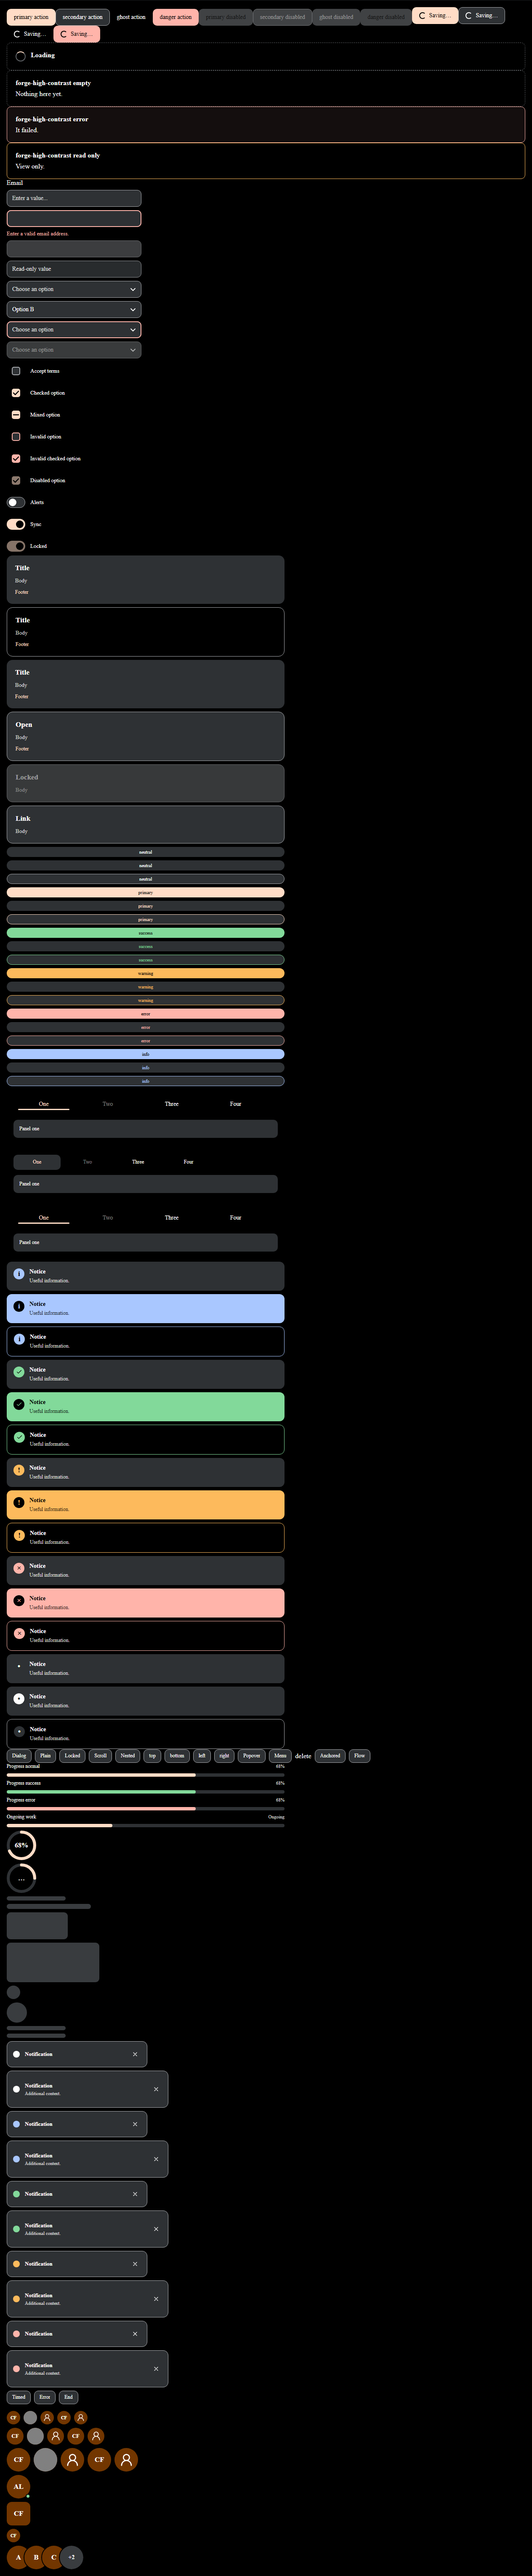
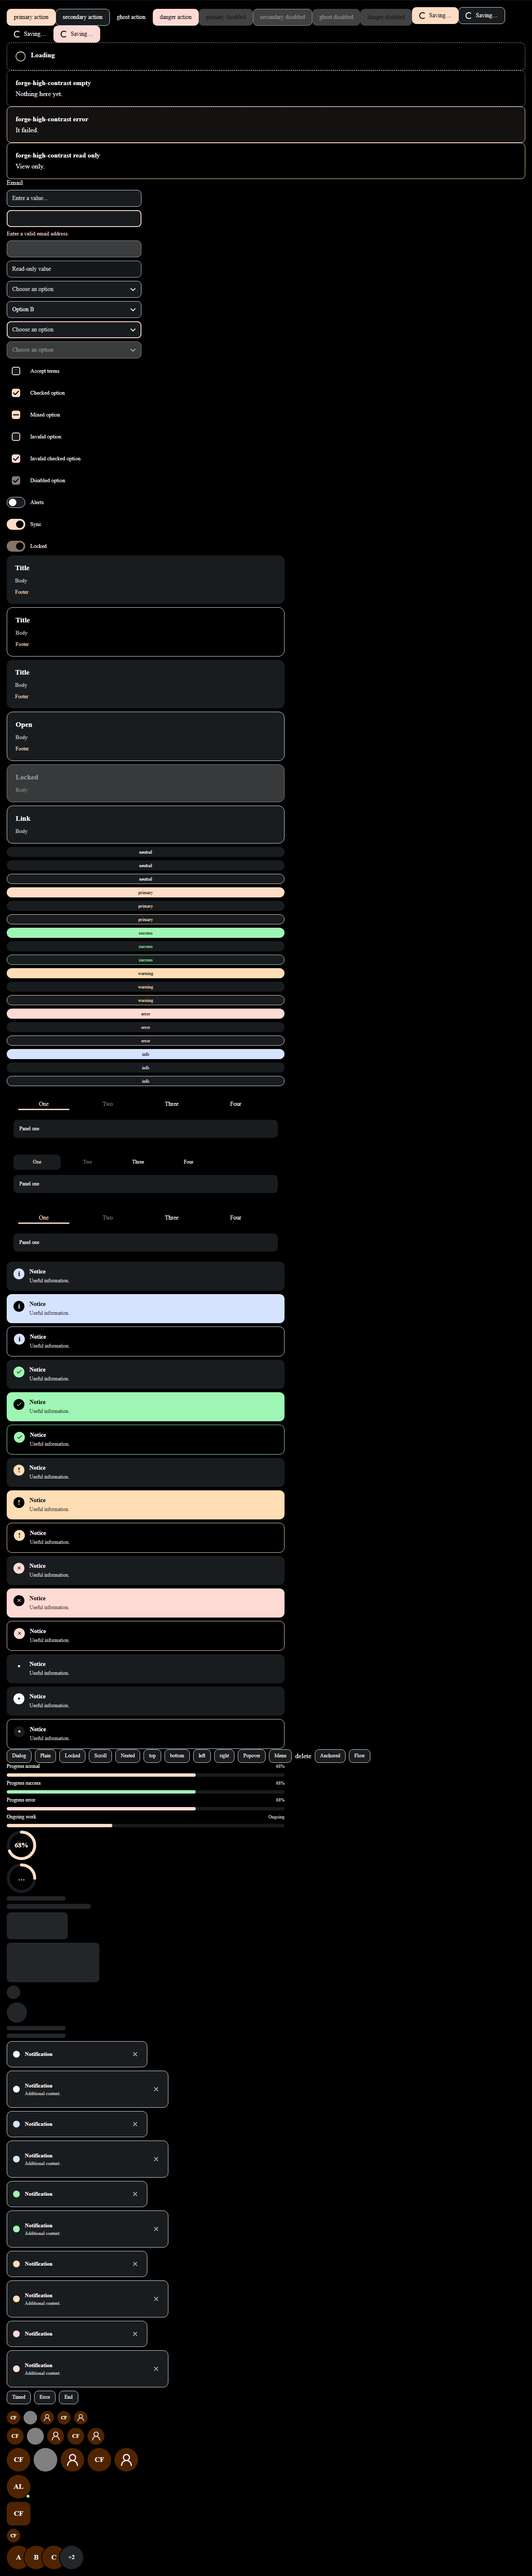
feat: settle the V2 token contract before release (#4)
Settles the V2 token contract before the 1.1.0 release: public roles and
internal component tokens, data-theme support, a real high contrast mode,
shadow and scrim roles instead of colors in geometry, a single source for
tones, modes, palettes and roles, and normalized line endings.

diff --git a/packages/tokens/src/theme-v2/theme-business/create-theme.ts b/packages/tokens/src/theme-v2/theme-business/create-theme.ts
@@ -1,4 +1,4 @@
-import type { BrandColors, Theme, ThemeConfig, Tone } from '../theme-abstractions/index.js';
+import { themeModes, type BrandColors, type Theme, type ThemeConfig, type Tone } from '../theme-abstractions/index.js';
 import { contrastRatio } from './contrast.js';
 import { generatePalette } from './palette.js';
 import { normalizeColor } from './theme.helper.js';
@@ -14,7 +14,7 @@ export function createTheme(config: ThemeConfig): Theme {
   if (!config || typeof config.name !== 'string' || !config.name.trim() || config.name.length > 80) {
     throw new TypeError('Theme name must be a non-empty string of at most 80 characters');
   }
-  if (!['light', 'dark', 'high-contrast'].includes(config.mode)) {
+  if (!themeModes.includes(config.mode)) {
     throw new TypeError('Theme mode must be light, dark, or high-contrast');
   }
   if (!config.colors || typeof config.colors !== 'object') throw new TypeError('Theme colors are required');
@@ -34,21 +34,22 @@ export function createTheme(config: ThemeConfig): Theme {
   const dark = config.mode !== 'light';
   const high = config.mode === 'high-contrast';
   const surface = palettes.neutral[dark ? (high ? 0 : 10) : 98];
-  const surfaceVariant = palettes.neutralVariant[dark ? 30 : 90];
+  const surfaceVariant = palettes.neutralVariant[high ? 20 : dark ? 30 : 90];
   const actionTones: StateTones = high ? [90, 85, 80] : dark ? [80, 75, 70] : [40, 35, 30];
-  const errorTones: StateTones = dark ? [80, 75, 70] : [40, 35, 30];
-  const containerTones: StateTones = dark ? [20, 25, 30] : [95, 90, 85];
+  const errorTones: StateTones = high ? [90, 85, 80] : dark ? [80, 75, 70] : [40, 35, 30];
+  const containerTones: StateTones = high ? [10, 15, 20] : dark ? [20, 25, 30] : [95, 90, 85];
+  const accentTone: Tone = high ? 90 : dark ? 80 : 40;
   const primary = palettes.primary[actionTones[0]];
   const error = palettes.error[errorTones[0]];
-  const primaryContainer = palettes.primary[dark ? 30 : 90];
-  const secondary = palettes.secondary[dark ? 80 : 40];
-  const warning = palettes.warning[dark ? 80 : 40];
-  const success = palettes.success[dark ? 80 : 40];
-  const info = palettes.info[dark ? 80 : 40];
+  const primaryContainer = palettes.primary[high ? 20 : dark ? 30 : 90];
+  const secondary = palettes.secondary[accentTone];
+  const warning = palettes.warning[accentTone];
+  const success = palettes.success[accentTone];
+  const info = palettes.info[accentTone];
   const roleValues: Theme['roles'] = {
     background: surface,
     surface,
-    surfaceRaised: palettes.neutral[dark ? 15 : 100],
+    surfaceRaised: palettes.neutral[high ? 5 : dark ? 15 : 100],
     surfaceContainer: palettes.neutral[containerTones[0]],
     surfaceContainerHover: palettes.neutral[containerTones[1]],
     surfaceContainerPressed: palettes.neutral[containerTones[2]],
@@ -61,11 +62,13 @@ export function createTheme(config: ThemeConfig): Theme {
     onPrimaryContainer: foreground(primaryContainer),
     secondary,
     onSecondary: foreground(secondary),
-    outline: palettes.neutralVariant[dark ? 70 : 40],
-    outlineVariant: palettes.neutralVariant[dark ? 40 : 80],
+    outline: palettes.neutralVariant[high ? 90 : dark ? 70 : 40],
+    outlineVariant: palettes.neutralVariant[high ? 70 : dark ? 40 : 80],
     focusRing: foreground(surface),
     selection: primaryContainer,
     disabled: palettes.neutral[dark ? 40 : 70],
+    scrim: palettes.neutral[10],
+    shadow: palettes.neutral[0],
     error,
     onError: foreground(error),
     errorHover: palettes.error[errorTones[1]],

diff --git a/packages/tokens/src/theme-v2/theme-business/validate-theme.ts b/packages/tokens/src/theme-v2/theme-business/validate-theme.ts
@@ -1,8 +1,6 @@
-import type { Theme, ThemeValidation } from '../theme-abstractions/index.js';
+import { paletteNames, semanticRoles, themeModes, tones, type Theme, type ThemeValidation } from '../theme-abstractions/index.js';
 import { contrastRatio } from './contrast.js';
-import { contrastPairs, roles, tones } from './theme.helper.js';
-
-const paletteNames = ['primary', 'secondary', 'neutral', 'neutralVariant', 'tertiary', 'error', 'warning', 'success', 'info'] as const;
+import { contrastPairs, highContrastPairs } from './theme.helper.js';
 
 export function validateTheme(theme: Theme): ThemeValidation {
   const errors: string[] = [];
@@ -10,7 +8,7 @@ export function validateTheme(theme: Theme): ThemeValidation {
     return { valid: false, errors: ['Theme roles are required'], contrasts: [] };
   }
   if (typeof theme.name !== 'string' || !theme.name.trim() || theme.name.length > 80) errors.push('Theme name is invalid');
-  if (!['light', 'dark', 'high-contrast'].includes(theme.mode)) errors.push('Theme mode is invalid');
+  if (!themeModes.includes(theme.mode)) errors.push('Theme mode is invalid');
   if (!theme.colors || typeof theme.colors !== 'object') errors.push('Theme colors are required');
   else {
     for (const key of paletteNames) if (!/^#[\da-f]{6}$/i.test(theme.colors[key] ?? '')) errors.push(`Invalid seed: ${key}`);
@@ -23,9 +21,10 @@ export function validateTheme(theme: Theme): ThemeValidation {
       }
     }
   }
-  for (const role of roles) if (!/^#[\da-f]{6}$/i.test(theme.roles[role] ?? '')) errors.push(`Invalid or missing role: ${role}`);
+  for (const role of semanticRoles) if (!/^#[\da-f]{6}$/i.test(theme.roles[role] ?? '')) errors.push(`Invalid or missing role: ${role}`);
 
-  const contrasts = contrastPairs
+  const pairs = theme.mode === 'high-contrast' ? [...contrastPairs, ...highContrastPairs] : contrastPairs;
+  const contrasts = pairs
     .filter(([foreground, background]) => /^#[\da-f]{6}$/i.test(theme.roles[foreground] ?? '') && /^#[\da-f]{6}$/i.test(theme.roles[background] ?? ''))
     .map(([foreground, background, minimum]) => {
       const ratio = contrastRatio(theme.roles[foreground], theme.roles[background]);
@@ -38,5 +37,5 @@ export function validateTheme(theme: Theme): ThemeValidation {
 export function getThemeRoleDeclarations(theme: Theme) {
   const validation = validateTheme(theme);
   if (!validation.valid) throw new Error(`Theme is invalid: ${validation.errors.join('; ')}`);
-  return roles.map((role) => [role, theme.roles[role]] as const);
+  return semanticRoles.map((role) => [role, theme.roles[role]] as const);
 }

diff --git a/packages/tokens/src/theme-v2/theme-business/theme.helper.ts b/packages/tokens/src/theme-v2/theme-business/theme.helper.ts
@@ -1,15 +1,5 @@
 import type { SemanticRole } from '../theme-abstractions/index.js';
 
-export const tones = [0, 5, 10, 15, 20, 25, 30, 35, 40, 45, 50, 55, 60, 65, 70, 75, 80, 85, 90, 95, 98, 99, 100] as const;
-
-export const roles: SemanticRole[] = [
-  'background', 'surface', 'surfaceRaised', 'surfaceContainer', 'surfaceVariant', 'onSurface', 'onSurfaceVariant',
-  'primary', 'onPrimary', 'primaryContainer', 'onPrimaryContainer', 'secondary', 'onSecondary', 'outline',
-  'outlineVariant', 'focusRing', 'selection', 'disabled', 'error', 'warning', 'success', 'info', 'actionPrimary',
-  'onActionPrimary', 'actionPrimaryHover', 'actionPrimaryPressed', 'onError', 'errorHover', 'errorPressed',
-  'surfaceContainerHover', 'surfaceContainerPressed', 'onSuccess', 'onWarning', 'onInfo',
-];
-
 export const contrastPairs: [SemanticRole, SemanticRole, number][] = [
   ['onSurface', 'surface', 4.5], ['onSurfaceVariant', 'surfaceVariant', 4.5], ['onPrimary', 'primary', 4.5],
   ['onPrimaryContainer', 'primaryContainer', 4.5], ['onSecondary', 'secondary', 4.5],
@@ -33,6 +23,17 @@ export const contrastPairs: [SemanticRole, SemanticRole, number][] = [
   ['success', 'surfaceContainer', 4.5], ['info', 'surfaceContainer', 4.5],
   ['error', 'surfaceContainerHover', 4.5], ['focusRing', 'surfaceContainer', 3],
   ['focusRing', 'surfaceContainerHover', 3],
+];
+
+export const highContrastPairs: [SemanticRole, SemanticRole, number][] = [
+  ['onSurface', 'surface', 7], ['onSurface', 'surfaceContainer', 7], ['onSurface', 'surfaceContainerHover', 7],
+  ['onSurface', 'surfaceContainerPressed', 7], ['onSurfaceVariant', 'surfaceVariant', 7],
+  ['onPrimaryContainer', 'primaryContainer', 7], ['onActionPrimary', 'actionPrimary', 7], ['onError', 'error', 7],
+  ['onSuccess', 'success', 7], ['onWarning', 'warning', 7], ['onInfo', 'info', 7],
+  ['actionPrimary', 'surfaceContainer', 7], ['error', 'surfaceContainer', 7], ['warning', 'surfaceContainer', 7],
+  ['success', 'surfaceContainer', 7], ['info', 'surfaceContainer', 7], ['focusRing', 'surfaceContainer', 7],
+  ['outline', 'surface', 4.5], ['outline', 'surfaceContainer', 4.5], ['outline', 'surfaceContainerHover', 4.5],
+  ['outline', 'surfaceContainerPressed', 4.5],
 ];
 
 export function normalizeColor(value: unknown, label: string): string {

diff --git a/packages/tokens/src/theme-v2/theme-abstractions/constants/constants.ts b/packages/tokens/src/theme-v2/theme-abstractions/constants/constants.ts
@@ -1,3 +1,16 @@
-export type Tone = 0 | 5 | 10 | 15 | 20 | 25 | 30 | 35 | 40 | 45 | 50 | 55 | 60 | 65 | 70 | 75 | 80 | 85 | 90 | 95 | 98 | 99 | 100;
-export type SemanticRole = 'background' | 'surface' | 'surfaceRaised' | 'surfaceContainer' | 'surfaceVariant' | 'onSurface' | 'onSurfaceVariant' | 'primary' | 'onPrimary' | 'primaryContainer' | 'onPrimaryContainer' | 'secondary' | 'onSecondary' | 'outline' | 'outlineVariant' | 'focusRing' | 'selection' | 'disabled' | 'error' | 'warning' | 'success' | 'info' | 'actionPrimary' | 'onActionPrimary' | 'actionPrimaryHover' | 'actionPrimaryPressed' | 'onError' | 'errorHover' | 'errorPressed' | 'surfaceContainerHover' | 'surfaceContainerPressed' | 'onSuccess' | 'onWarning' | 'onInfo';
-export type ThemeMode = 'light' | 'dark' | 'high-contrast';
+export const tones = [0, 5, 10, 15, 20, 25, 30, 35, 40, 45, 50, 55, 60, 65, 70, 75, 80, 85, 90, 95, 98, 99, 100] as const;
+export type Tone = (typeof tones)[number];
+
+export const themeModes = ['light', 'dark', 'high-contrast'] as const;
+export type ThemeMode = (typeof themeModes)[number];
+
+export const paletteNames = ['primary', 'secondary', 'neutral', 'neutralVariant', 'tertiary', 'error', 'warning', 'success', 'info'] as const;
+
+export const semanticRoles = [
+  'background', 'surface', 'surfaceRaised', 'surfaceContainer', 'surfaceContainerHover', 'surfaceContainerPressed',
+  'surfaceVariant', 'onSurface', 'onSurfaceVariant', 'primary', 'onPrimary', 'primaryContainer', 'onPrimaryContainer',
+  'secondary', 'onSecondary', 'outline', 'outlineVariant', 'focusRing', 'selection', 'disabled', 'scrim', 'shadow',
+  'error', 'onError', 'errorHover', 'errorPressed', 'warning', 'onWarning', 'success', 'onSuccess', 'info', 'onInfo',
+  'actionPrimary', 'onActionPrimary', 'actionPrimaryHover', 'actionPrimaryPressed',
+] as const;
+export type SemanticRole = (typeof semanticRoles)[number];

diff --git a/packages/tokens/src/theme-v2/theme-module/tokens-css.ts b/packages/tokens/src/theme-v2/theme-module/tokens-css.ts
@@ -5,6 +5,7 @@ import { presets } from './presets.js';
 import { cssDeclarations, cssVariableName } from './theme-css.js';
 
 const modeSelector = (mode: ThemeMode) => `[data-cf-theme-mode="${mode}"]`;
+const inheritedSelector = (mode: ThemeMode) => `[data-theme="${mode}"]:not([data-cf-theme-mode])`;
 
 function block(selector: string, declarations: readonly (readonly [string, string])[]): string {
   return `${selector} {\n${declarations.map(([name, value]) => `  ${name}: ${value};`).join('\n')}\n}\n`;
@@ -20,6 +21,8 @@ export function generateTokensCss(): string {
   );
   return [
     block(`:root, ${modeSelector('dark')}`, roleDeclarations('dark')),
+    block(inheritedSelector('dark'), roleDeclarations('dark')),
+    block(inheritedSelector('light'), roleDeclarations('light')),
     block(modeSelector('light'), [['color-scheme', 'light'], ...roleDeclarations('light')]),
     block(modeSelector('high-contrast'), roleDeclarations('high-contrast')),
     block(`${modeSelector('dark')}, ${modeSelector('high-contrast')}`, [['color-scheme', 'dark']]),

diff --git a/packages/tokens/src/theme-v2/theme-module/geometry.ts b/packages/tokens/src/theme-v2/theme-module/geometry.ts
@@ -81,7 +81,9 @@ export const geometry = {
     bodyOpacity: '0.8',
     footerFontSize: '12px',
     footerFontWeight: '500',
-    shadow: '0 5px 8px rgba(0, 0, 0, 0.21)',
+    shadowOffset: '5px',
+    shadowBlur: '8px',
+    shadowOpacity: '0.21',
     focusWidth: '2px',
     disabledOpacity: '0.6',
     transitionDuration: '120ms',
@@ -165,7 +167,7 @@ export const geometry = {
     footerGap: '9px',
     focusWidth: '2px',
     touchTarget: '44px',
-    backdrop: 'rgba(23, 27, 34, 0.72)',
+    backdropOpacity: '0.72',
   },
   tooltip: {
     maxWidth: '215px',

diff --git a/packages/tokens/src/theme-v2/theme-business/palette.ts b/packages/tokens/src/theme-v2/theme-business/palette.ts
@@ -1,6 +1,6 @@
 import { TonalPalette, argbFromHex, hexFromArgb } from '@material/material-color-utilities';
-import type { TonalScale } from '../theme-abstractions/index.js';
-import { normalizeColor, tones } from './theme.helper.js';
+import { tones, type TonalScale } from '../theme-abstractions/index.js';
+import { normalizeColor } from './theme.helper.js';
 
 export function generatePalette(seed: string): TonalScale {
   const palette = TonalPalette.fromInt(argbFromHex(normalizeColor(seed, 'seed')));

diff --git a/packages/ui/src/componentsV2/surfaces/CardV2/CardV2.module.css b/packages/ui/src/componentsV2/surfaces/CardV2/CardV2.module.css
@@ -22,7 +22,8 @@
 }
 
 .elevated {
-  box-shadow: var(--cf-v2-card-shadow);
+  box-shadow: 0 var(--cf-v2-card-shadow-offset) var(--cf-v2-card-shadow-blur)
+    color-mix(in srgb, var(--cf-v2-shadow) calc(var(--cf-v2-card-shadow-opacity) * 100%), transparent);
 }
 
 .interactive {

diff --git a/packages/tokens/src/theme-v2/theme-abstractions/index.ts b/packages/tokens/src/theme-v2/theme-abstractions/index.ts
@@ -7,3 +7,4 @@ export type {
   TonalScale,
 } from './models/models.js';
 export type { SemanticRole, ThemeMode, Tone } from './constants/constants.js';
+export { paletteNames, semanticRoles, themeModes, tones } from './constants/constants.js';

diff --git a/packages/ui/src/componentsV2/overlays/DialogV2/DialogV2.module.css b/packages/ui/src/componentsV2/overlays/DialogV2/DialogV2.module.css
@@ -29,7 +29,7 @@
 }
 
 .dialog::backdrop {
-  background: var(--cf-v2-dialog-backdrop);
+  background: color-mix(in srgb, var(--cf-v2-scrim) calc(var(--cf-v2-dialog-backdrop-opacity) * 100%), transparent);
 }
 
 .sm {

diff --git a/docs/design-system/theme-engine-v2.md b/docs/design-system/theme-engine-v2.md
@@ -13,8 +13,8 @@ available on npm until a future release is published.
 2. **Tonal palettes:** fixed tones from 0 through 100 generated with HCT.
 3. **Semantic roles:** surfaces, foregrounds, actions, outlines, focus,
    selection, disabled state, and feedback colors. Light, dark, and high
-   contrast each use explicit tone assignments. High contrast is currently a
-   dark appearance with a black surface and lighter primary.
+   contrast each use explicit tone assignments. High contrast is a dark
+   appearance with its own stricter contract, described below.
 4. **Component roles:** `actionPrimary` and `onActionPrimary` demonstrate an
    additive component layer. Future V2 components may consume these roles or
    define further `--cf-v2-*` component tokens.
@@ -117,8 +117,8 @@ move away from the surface.
 | Roles (rest, hover, pressed) | Foreground | Light | Dark | High contrast |
 | --- | --- | --- | --- | --- |
 | `actionPrimary`, `actionPrimaryHover`, `actionPrimaryPressed` | `onActionPrimary` | 40, 35, 30 | 80, 75, 70 | 90, 85, 80 |
-| `error`, `errorHover`, `errorPressed` | `onError` | 40, 35, 30 | 80, 75, 70 | 80, 75, 70 |
-| `surfaceContainer`, `surfaceContainerHover`, `surfaceContainerPressed` | `onSurface` | 95, 90, 85 | 20, 25, 30 | 20, 25, 30 |
+| `error`, `errorHover`, `errorPressed` | `onError` | 40, 35, 30 | 80, 75, 70 | 90, 85, 80 |
+| `surfaceContainer`, `surfaceContainerHover`, `surfaceContainerPressed` | `onSurface` | 95, 90, 85 | 20, 25, 30 | 10, 15, 20 |
 
 A fill keeps one foreground across its states. `validateTheme` enforces:
 
@@ -132,6 +132,26 @@ A fill keeps one foreground across its states. `validateTheme` enforces:
 
 Disabled and focus treatments are not part of these roles. Focus keeps using
 `focusRing`, and loading reuses the rest roles with `aria-busy`.
+
+## High contrast
+
+High contrast raises surfaces, outlines, and status colors, not only the page
+background. On top of the rules for every mode, `validateTheme` requires in this
+mode:
+
+- **Text:** 7:1 for `onSurface` on `surface` and every `surfaceContainer` state,
+  for each foreground on its fill, and for action and status colors on
+  `surfaceContainer`.
+- **Focus:** 7:1 for `focusRing` on `surfaceContainer`.
+- **Outline:** 4.5:1 on `surface` and every `surfaceContainer` state.
+
+There is no light high contrast mode yet.
+
+## Shadow and scrim
+
+`shadow` and `scrim` are opaque roles, so a theme controls them. Components apply
+their opacity from geometry, as `card-shadow-opacity` and
+`dialog-backdrop-opacity` do. Geometry holds no colors.
 
 ## Status roles
 
@@ -162,13 +182,14 @@ lists the button variables.
 
 `@corefoundry-labs/forge-tokens/theme-v2/tokens.css` also carries the Forge
 preset, generated by the engine at build time, so V2 components have color
-without V1 tokens or a runtime theme. Dark applies on `:root`. Set
-`data-cf-theme-mode` to `light`, `dark`, or `high-contrast` on any element to
-pick a mode. `ThemeScope`, `applyTheme`, and `generateThemeCss` replace these
+without V1 tokens or a runtime theme. Dark applies on `:root`. V2 follows
+the V1 `data-theme` attribute, so a V1 page in light mode gets light V2
+components. Set `data-cf-theme-mode` to `light`, `dark`, or `high-contrast` on any
+element to pick a mode, and it wins over `data-theme` on the same element. `ThemeScope`, `applyTheme`, and `generateThemeCss` replace these
 defaults within their scope.
 
 The stylesheet sets `color-scheme` only through `data-cf-theme-mode`, never on
-`:root`, so it does not override the V1 `[data-theme]` scheme when both
+`:root` or through `data-theme`, so it does not override the V1 `[data-theme]` scheme when both
 stylesheets load.
 
 | Variable suffix | Value |

diff --git a/packages/tokens/README.md b/packages/tokens/README.md
@@ -1,20 +1,10 @@
 # @corefoundry-labs/forge-tokens
 
-The versioned Forge design-token contract. `tokens.json` is authoritative; `npm run generate:tokens` generates `src/tokens.css`, and package builds distribute that generated file. Never edit generated CSS directly.
+Design tokens for Forge. The package carries two independent systems: the V1 tokens and Theme Engine V2.
 
-The CSS contract is `data-theme="dark"` or `data-theme="light"`. Dark is the default on `:root` when no attribute is present. A nested element with either attribute starts an isolated semantic token scope. The package does not manage theme state or persistence.
+## V1 tokens
 
-Semantic variables include surfaces, text, borders, interactive states, focus,
-status, selection, overlays, and elevations. Foundations also provide spacing,
-radius, typography, motion, responsive values, and border widths. Consult
-[`token-reconciliation.md`](../../docs/design/token-reconciliation.md) for
-evidence and status for each historical drift. Light mode is not claimed as a
-human-approved canonical Figma mode. In particular, the intended variable
-status of `surfaceInteractive` and `surfaceTag` remains an open design decision.
-The generated CSS also exposes a small primitive palette (`--forge-palette-*`)
-sampled only from values already present in the current token source. These
-primitive samples are implementation foundations, not a claim that Figma
-defines those palette scales or names.
+`tokens.json` is authoritative, and it generates the CSS variables (`--forge-*`). They cover surfaces, text, borders, interactive states, focus, status, selection, overlays, elevations, spacing, radius, typography, motion, responsive values, and border widths. The generated `--forge-palette-*` values are implementation foundations sampled from the token source, not palette scales defined in Figma.
 
 ```css
 @import '@corefoundry-labs/forge-tokens/tokens.css';
@@ -26,11 +16,27 @@ defines those palette scales or names.
 }
 ```
 
-Set `data-theme="light"` on a host element to scope light tokens; omit the
-attribute for the default dark palette.
+Dark is the default on `:root`. Set `data-theme="light"` on a host element to scope light tokens.
 
-Build and validate with `npm run generate:tokens`, `npm run check:tokens`,
-`npm run build --workspace=@corefoundry-labs/forge-tokens`, and
-`npm test --workspace=@corefoundry-labs/forge-tokens`. Package consumers should import
-`@corefoundry-labs/forge-tokens/tokens.css`; applications must not depend on the package's
-source directory.
+## Theme Engine V2
+
+`@corefoundry-labs/forge-tokens/theme-v2` generates accessible color themes from brand seeds, and `theme-v2/tokens.css` ships the Forge preset as the default.
+
+```ts
+import { applyTheme, createTheme, presets } from '@corefoundry-labs/forge-tokens/theme-v2';
+
+applyTheme(element, createTheme({ ...presets.forge, mode: 'light' }));
+```
+
+Semantic roles such as `--cf-v2-surface` are public. Component tokens such as `--cf-v2-button-height-md` are internal, so do not depend on them. V2 follows `data-theme`, and `data-cf-theme-mode` overrides it with `light`, `dark`, or `high-contrast`. See the [Theme Engine V2 guide](../../docs/design-system/theme-engine-v2.md).
+
+## Development
+
+From the repository root:
+
+```bash
+npm run build --workspace=@corefoundry-labs/forge-tokens
+npm test --workspace=@corefoundry-labs/forge-tokens
+```
+
+The build regenerates the V1 CSS and the V2 stylesheet. Applications must import the package exports, not its source directory.
